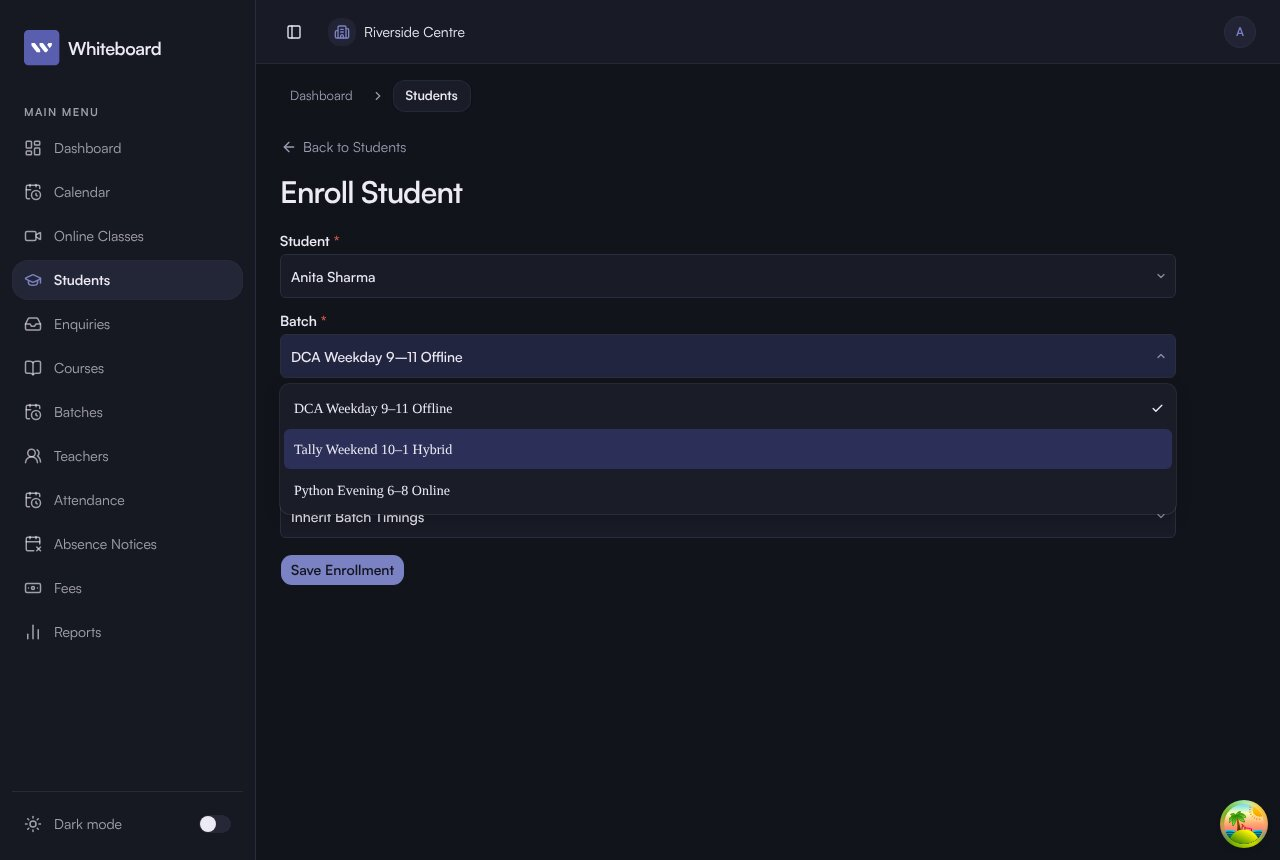
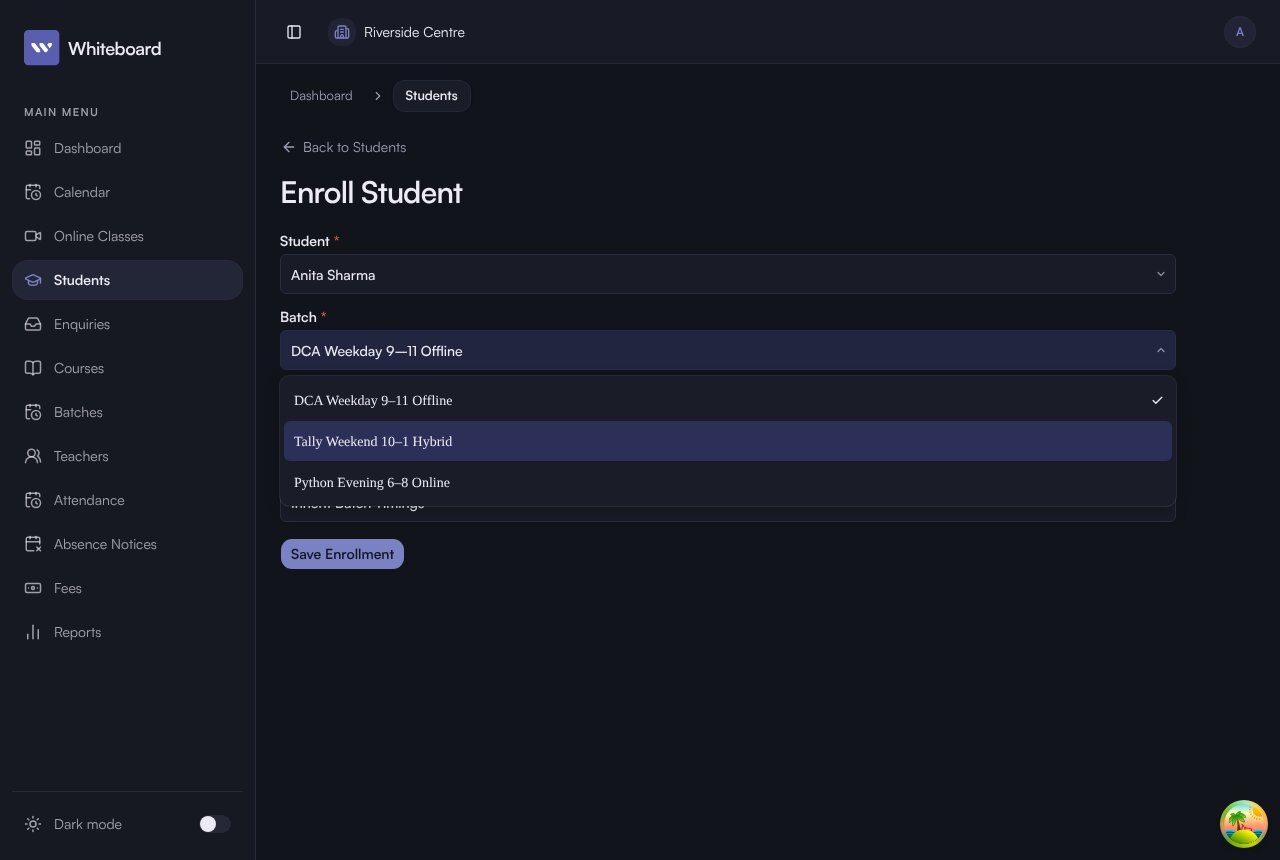
Shared Select: keep lg at 40 px; stable input callbacks
Review on #115:

- `lg` trigger stays at 40 px (`h-10`) instead of Glide's 44 px, so it
  lines up with the `h-10` Inputs beside it (Student form, report
  filters, central inventory, TDS ledger). Rows stay 26 / 30 / 40 px.
- `getInput`, `setInput` and `setTrigger` are `useCallback`s, so the
  pill's MutationObserver and listeners are no longer rebuilt every time
  `instantClose` flips on close.
- frontend-patterns skill: Select size matches Input height again; drop
  the stale country-code prefix note.
- Retake the Enroll Student "after" screenshots at the 40 px height.

Claude-Session: https://claude.ai/code/session_01EGN66at78BEDPaDQ5wso2n

Changed region(s): [[0.2188, 0.3628, 0.9062, 0.6953], [0.2188, 0.3023, 0.2812, 0.3326]]

diff --git a/packages/ui/src/components/select.tsx b/packages/ui/src/components/select.tsx
@@ -46,20 +46,17 @@ function Select<Value, Multiple extends boolean | undefined = false>({
   const [instantClose, setInstantClose] = React.useState(false);
   const inputRef = React.useRef<SelectInput>("pointer");
   const triggerRef = React.useRef<HTMLElement | null>(null);
+  // Stable, so the pill's observer is not rebuilt each time the menu closes.
+  const getInput = React.useCallback(() => inputRef.current, []);
+  const setInput = React.useCallback((input: SelectInput) => {
+    inputRef.current = input;
+  }, []);
+  const setTrigger = React.useCallback((trigger: HTMLElement | null) => {
+    triggerRef.current = trigger;
+  }, []);
   const context = React.useMemo(
-    () => ({
-      size,
-      setSize,
-      instantClose,
-      getInput: () => inputRef.current,
-      setInput: (input: SelectInput) => {
-        inputRef.current = input;
-      },
-      setTrigger: (trigger: HTMLElement | null) => {
-        triggerRef.current = trigger;
-      },
-    }),
-    [size, instantClose],
+    () => ({ size, setSize, instantClose, getInput, setInput, setTrigger }),
+    [size, instantClose, getInput, setInput, setTrigger],
   );
 
   return (
@@ -124,7 +121,8 @@ const selectTriggerVariants = cva(
       size: {
         default: "h-8 text-[13px]",
         sm: "h-7 text-[12px]",
-        lg: "h-11 text-[14px]",
+        // 40 px, not Glide's 44, so it lines up with `h-10` Inputs in forms.
+        lg: "h-10 text-[14px]",
       },
     },
     defaultVariants: {

diff --git a/apps/construction-management/components/ui/select.stories.tsx b/apps/construction-management/components/ui/select.stories.tsx
@@ -216,7 +216,7 @@ export const Sizes: Story = {
     const heights = canvas
       .getAllByRole("combobox")
       .map((trigger) => trigger.offsetHeight);
-    await expect(heights).toEqual([28, 32, 44]);
+    await expect(heights).toEqual([28, 32, 40]);
   },
 };
 

diff --git a/apps/whiteboard/components/ui/select.stories.tsx b/apps/whiteboard/components/ui/select.stories.tsx
@@ -216,7 +216,7 @@ export const Sizes: Story = {
     const heights = canvas
       .getAllByRole("combobox")
       .map((trigger) => trigger.offsetHeight);
-    await expect(heights).toEqual([28, 32, 44]);
+    await expect(heights).toEqual([28, 32, 40]);
   },
 };
 

diff --git a/.grok/skills/frontend-patterns/SKILL.md b/.grok/skills/frontend-patterns/SKILL.md
@@ -71,9 +71,9 @@ Empty titled pages use `PagePlaceholder` (`Empty` from `@repo/ui`). Page reads u
 />
 ```
 
-Select follows React Bits' Glide Select (issue #113): `sm` is 28 px, `default` 32 px, `lg` 44 px, with rows of 26 / 30 / 40 px in the menu. Use `size="lg"` next to auth/onboarding inputs. Height lives on the size variant so `className="h-10"` cannot lose to `data-[size=default]:h-8`. The menu drops 6 px below the trigger from its corner (`align="start"`, `alignItemWithTrigger={false}` are the defaults now) and is 176 px wide, never narrower than the trigger. `SelectItem` takes an optional `tag` for secondary text (`<SelectItem value="dca" tag="6 months">DCA</SelectItem>`).
+Select follows React Bits' Glide Select (issue #113), and its `size` matches Input height: `sm` is 28 px (`h-7`), `default` 32 px (`h-8`), `lg` 40 px (`h-10`, not Glide's 44 px), with rows of 26 / 30 / 40 px in the menu. Use `size="lg"` next to `h-10` inputs (forms, auth, onboarding). Height lives on the size variant so `className="h-10"` cannot lose to `data-[size=default]:h-8`. The menu drops 6 px below the trigger from its corner (`align="start"`, `alignItemWithTrigger={false}` are the defaults now) and is 176 px wide, never narrower than the trigger. `SelectItem` takes an optional `tag` for secondary text (`<SelectItem value="dca" tag="6 months">DCA</SelectItem>`).
 
-Compact prefix selects (country code) use a fixed trigger width (`w-[7.5rem] shrink-0`) and `aria-label` when the visible label belongs to a sibling field.
+A compact trigger (`w-32`, a filter) still gets the 176 px menu; Base UI shifts it to stay inside the viewport on a phone. Give a Select an `aria-label` when its visible label belongs to a sibling field.
 
 ## Forms
 
